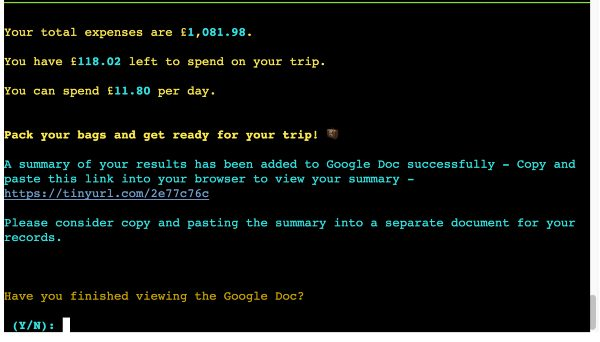
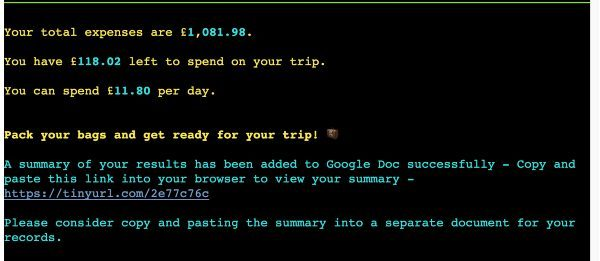
Update README with additional screenshots and clarify final confirmation process for Google Doc

diff --git a/README.md b/README.md
@@ -84,10 +84,24 @@ The user is then prompted to confirm whether the details provided in the followi
  The final stage displays the totals of all of the entered expenses. the statement also provides a value of how much money remains in your budget and how much this leaves the user for spending per day. This value is also displayed if there are negative values, and this is shown for reference to give the user an idea of how much more they may need to save before they can book that trip. 
 
  ![screenshot of final summary](/documentation/final_summary.jpg)
+![screenshot of final question](/documentation/clear_doc.jpg)
+ This is preceded with an explanation and link to the google doc, where a summary of the expenses per category and final summary is printed. The user is encouraged to copy and paste this summary for their own records.
+ 
+ ![screenshot of google doc](/documentation/google_doc.jpg)
 
- This is preceded with an explanation and link to the google doc, where a summary of the expenses per category and final summary is printed. The user is encouraged to copy and paste this summary for their own records. Finally the user is asked if they have finished viewing the Google Doc
+  Finally the user is asked if they have finished viewing the Google Doc. If 'n' is selected, the user is informed that the programme cannot end until 'y' is selected. This is because once 'y' is selected the google document will be wiped, ready for the next user.
+
+  ![screenshot of final question](/documentation/final_message.jpg)
+
+  Once 'y' has been selected the concluding message is presented and the programme ends.
+
 
 ### Future Features
+
+There are a number of limitations currently to the programme. In future implementations I would consider adding or amending the following: 
+
+* The google document updates at various stages throughout the programme, this creates an issue if the terminal is refreshed or restarted as the summaries may print to the document when not necessarily required by the user. A fix would need to be implemented to remove any prints if the terminal is restarted.
+* The instructions and explanations within the programme are a bit unclear or clunky, I would look at refining the content to make it more user friendly and easier to navigate.
 
 ## Data Model
 
